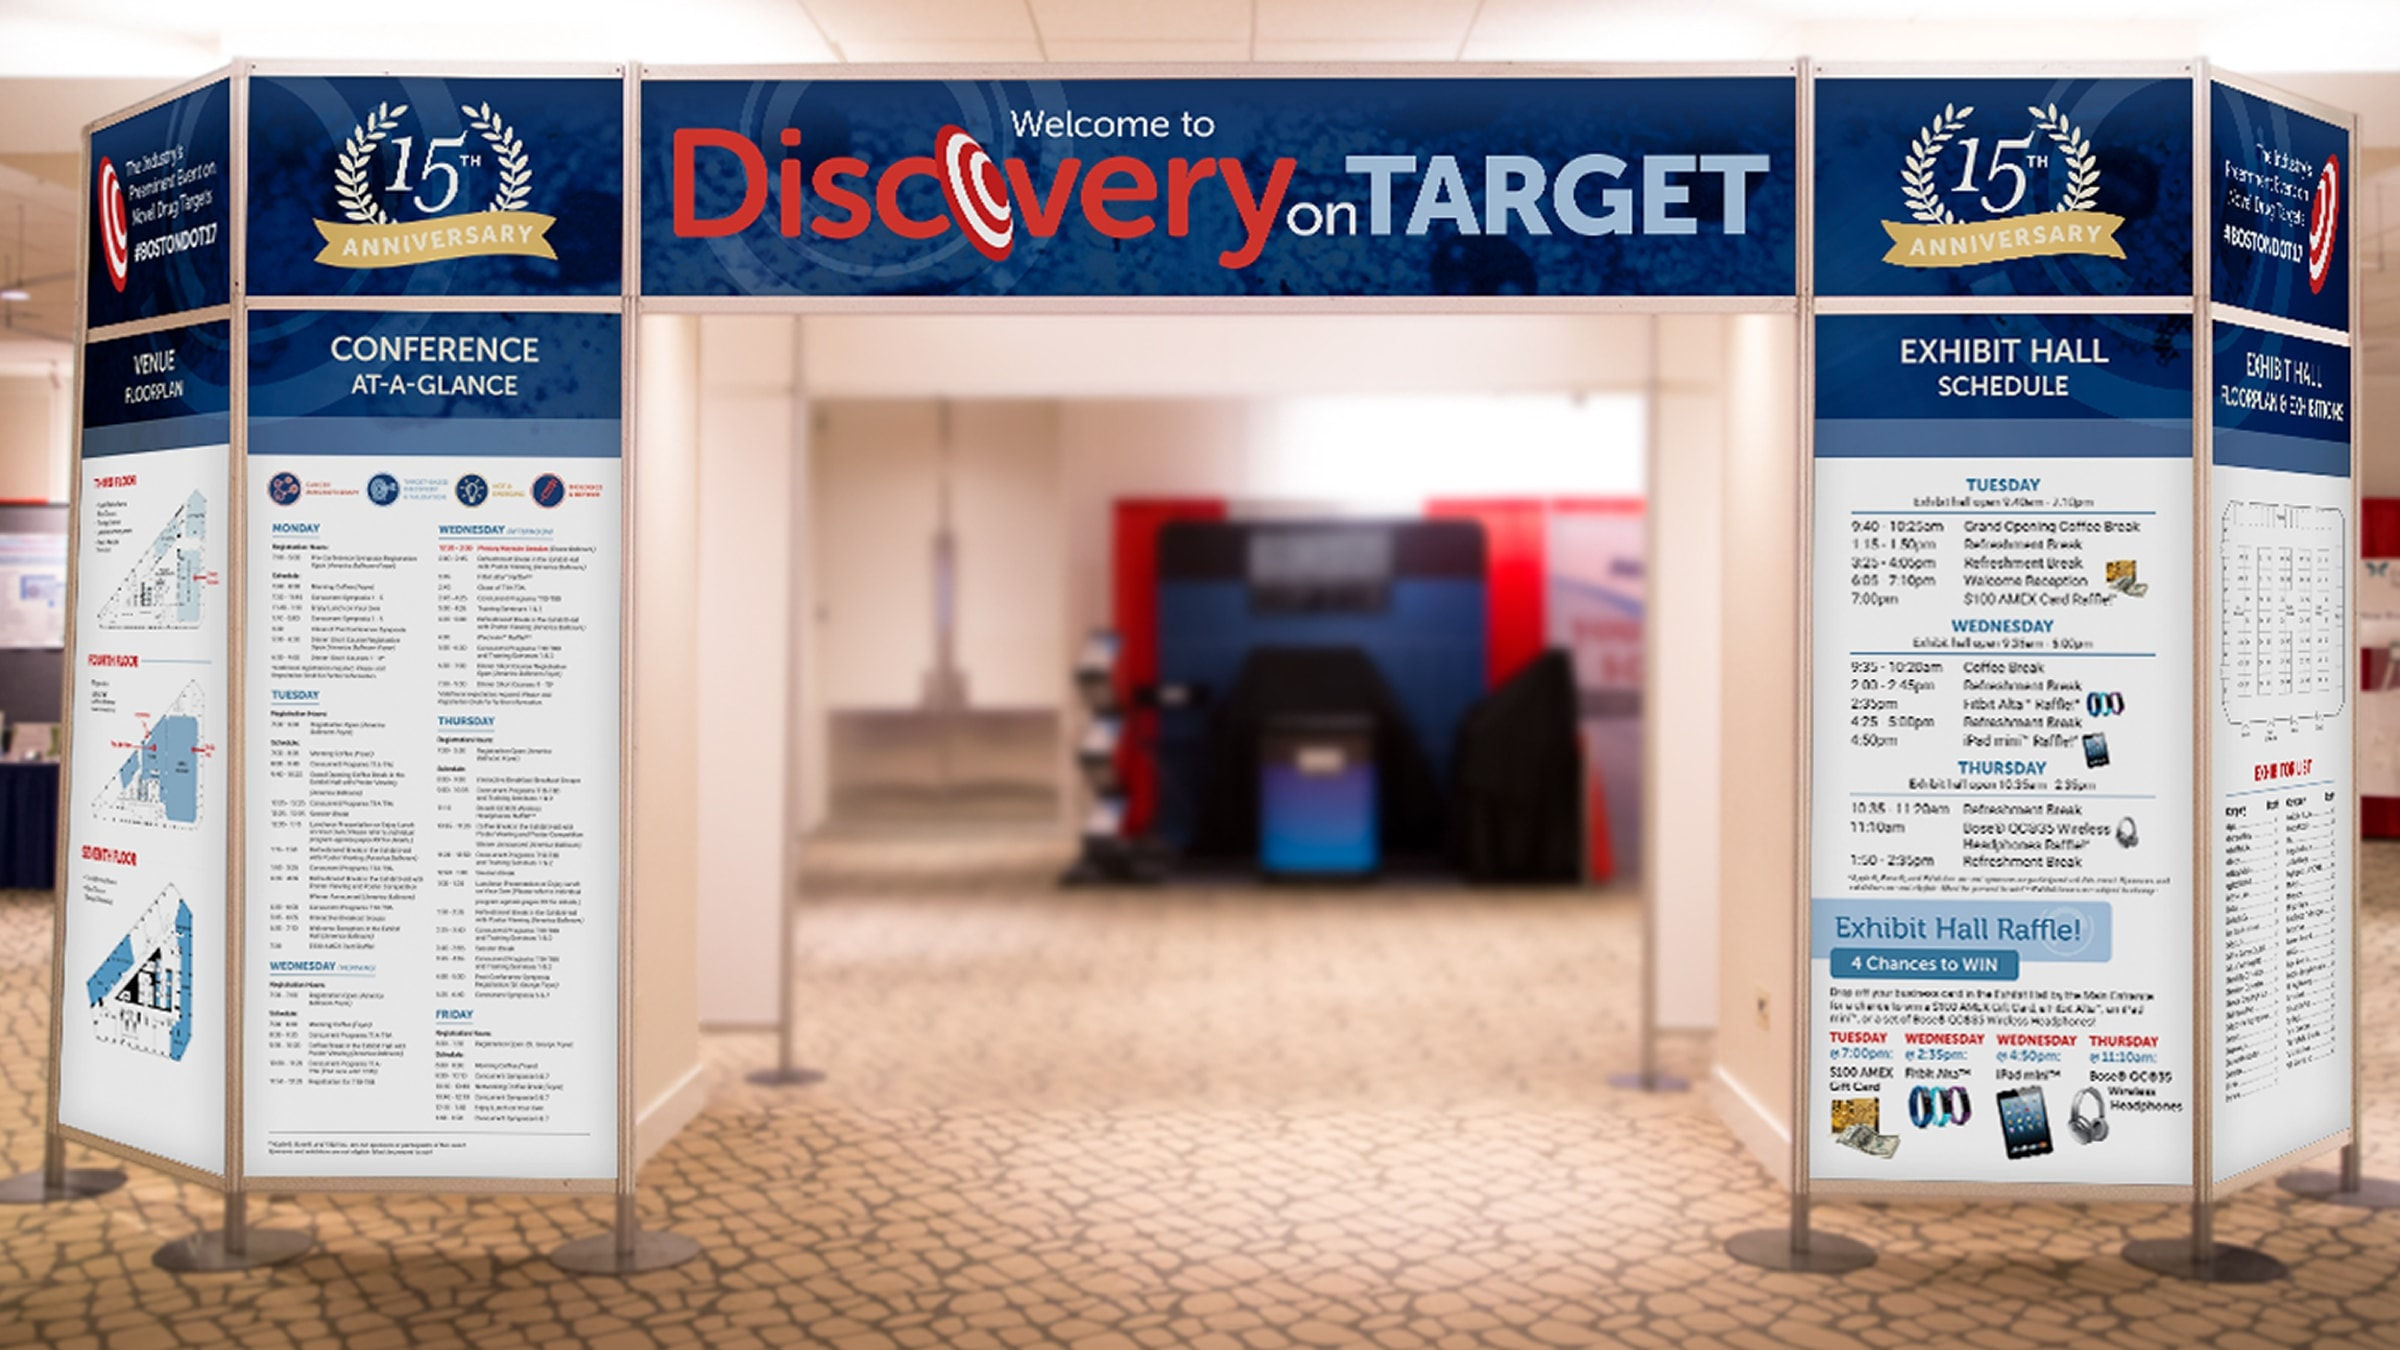
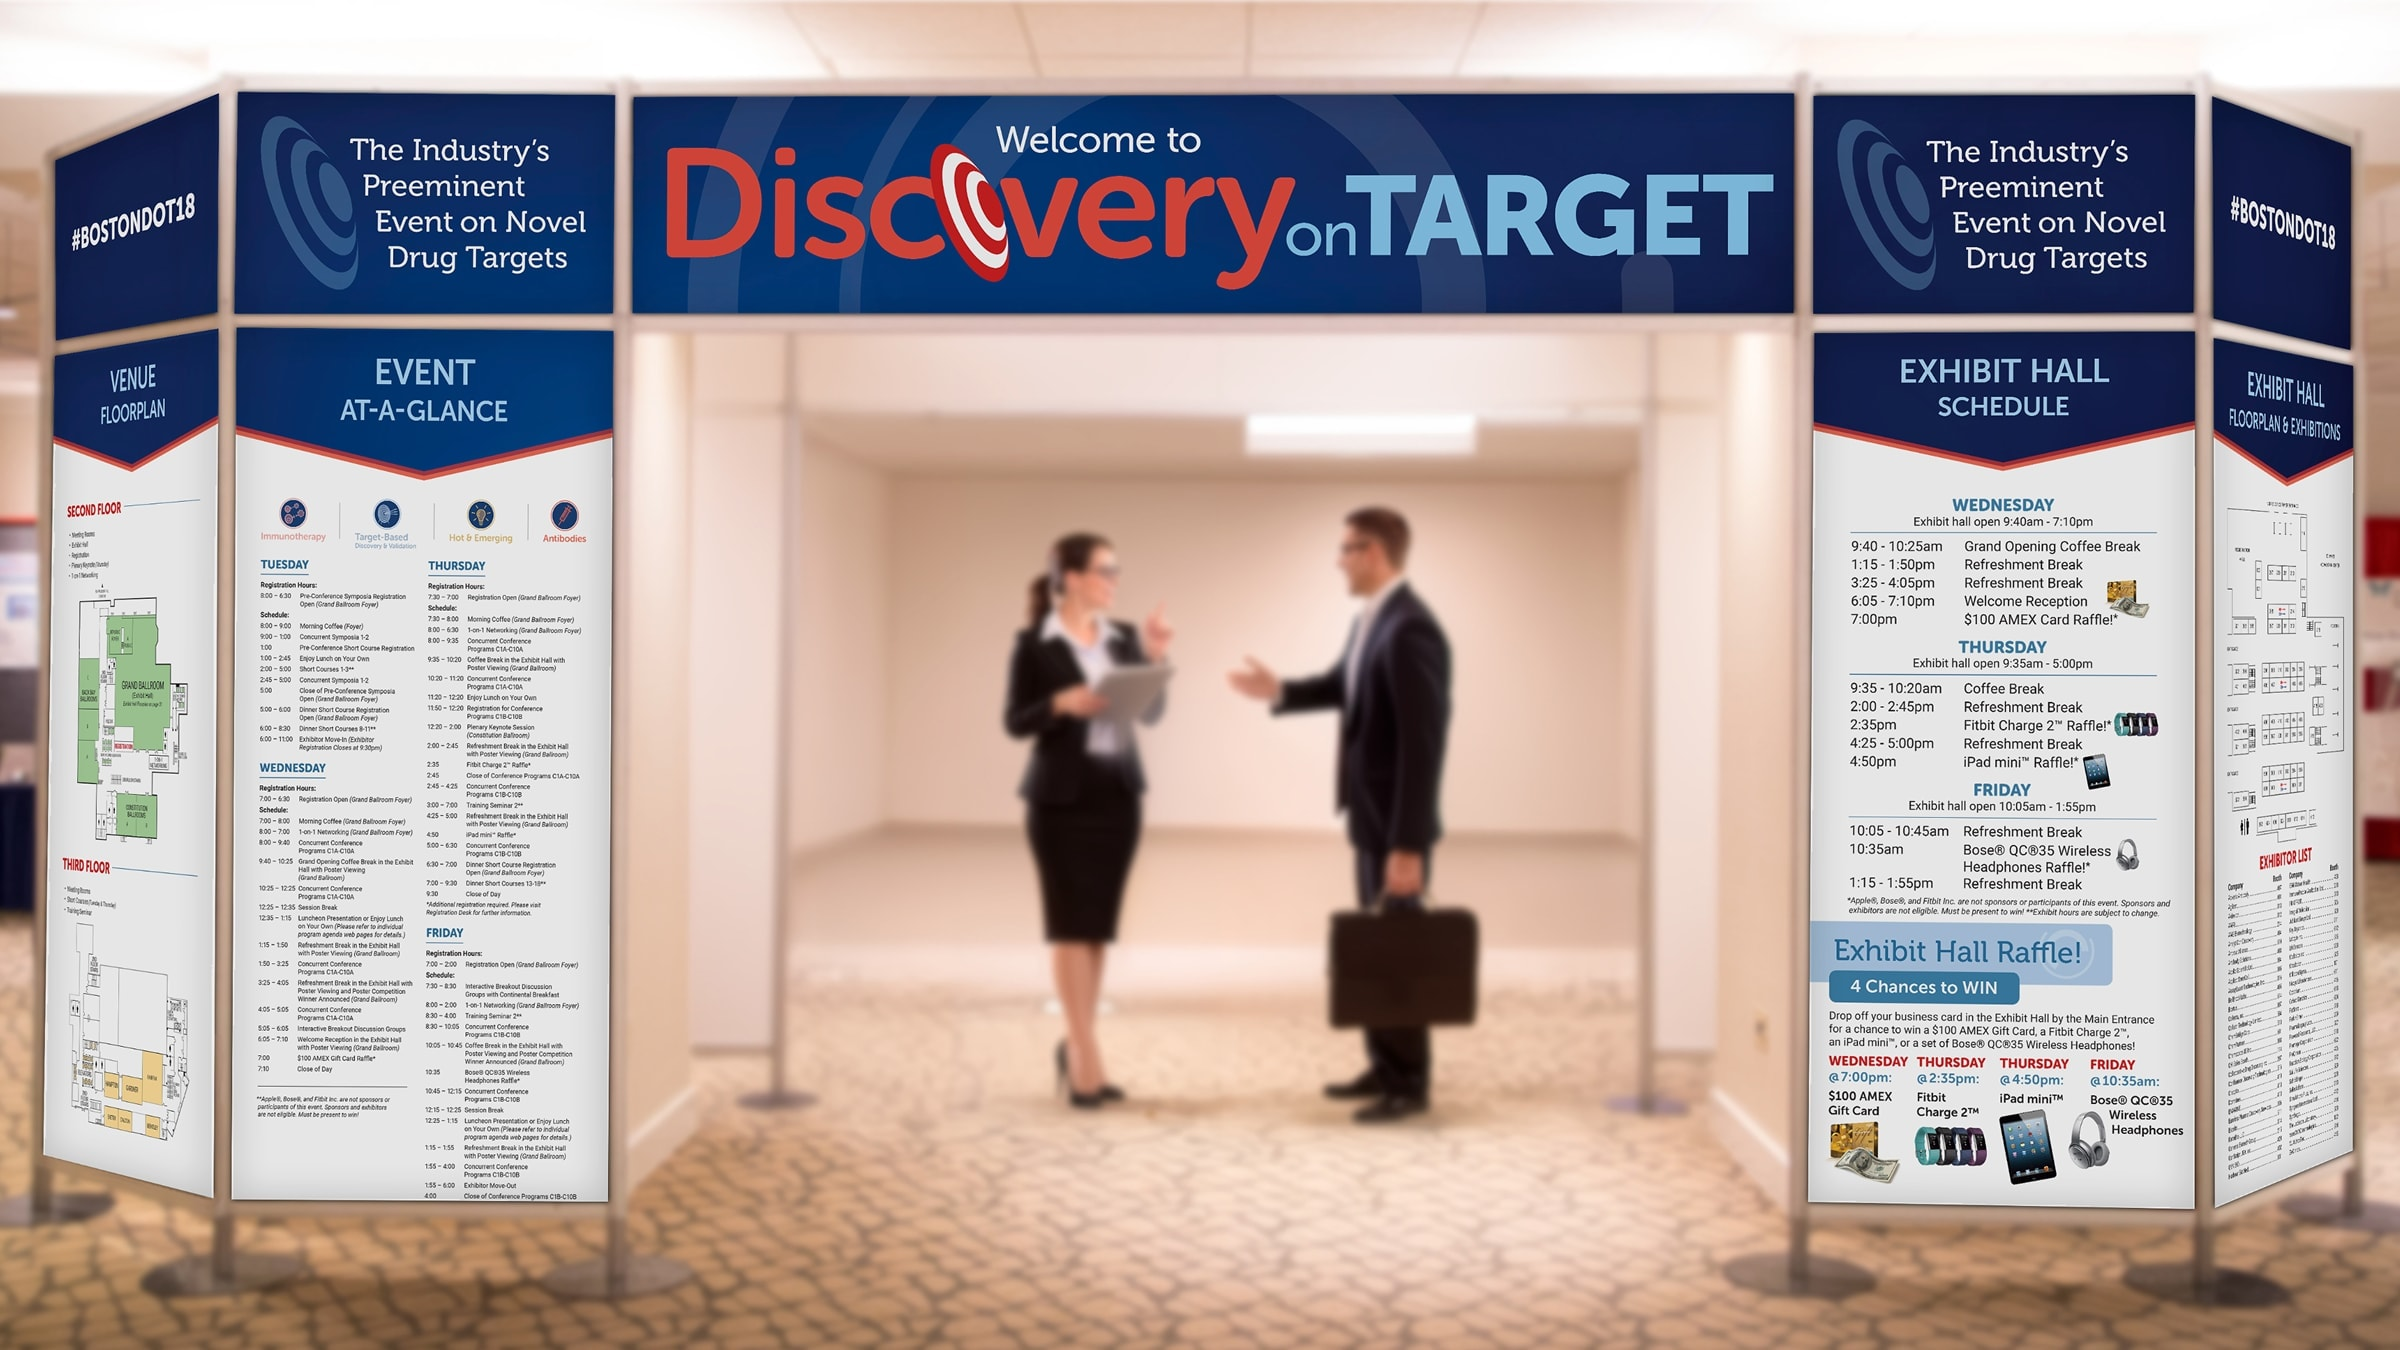
Optimize DOT archway image.

diff --git a/src/data/image-assets.ts b/src/data/image-assets.ts
@@ -216,7 +216,7 @@ export const imageAssets: Record<string, ImageAsset> = {
   },
   "/images/cii-dot-entryway-arch-3d-render.jpg": {
     src: "/images/cii-dot-entryway-arch-3d-render.jpg",
[2 lines of base64/hex data omitted]
   },
   "/images/cii-dot-entryway-arch-constructed.jpg": {
     src: "/images/cii-dot-entryway-arch-constructed.jpg",

diff --git a/src/data/preview-image-assets.ts b/src/data/preview-image-assets.ts
@@ -33,7 +33,7 @@ export const previewImageAssets: Record<string, ImageAsset> = {
   },
   "/images/previews/cii-dot-entryway-arch-3d-render.jpg": {
     src: "/images/previews/cii-dot-entryway-arch-3d-render.jpg",
[2 lines of base64/hex data omitted]
   },
   "/images/previews/inpa-editorial-program-layouts.jpg": {
     src: "/images/previews/inpa-editorial-program-layouts.jpg",